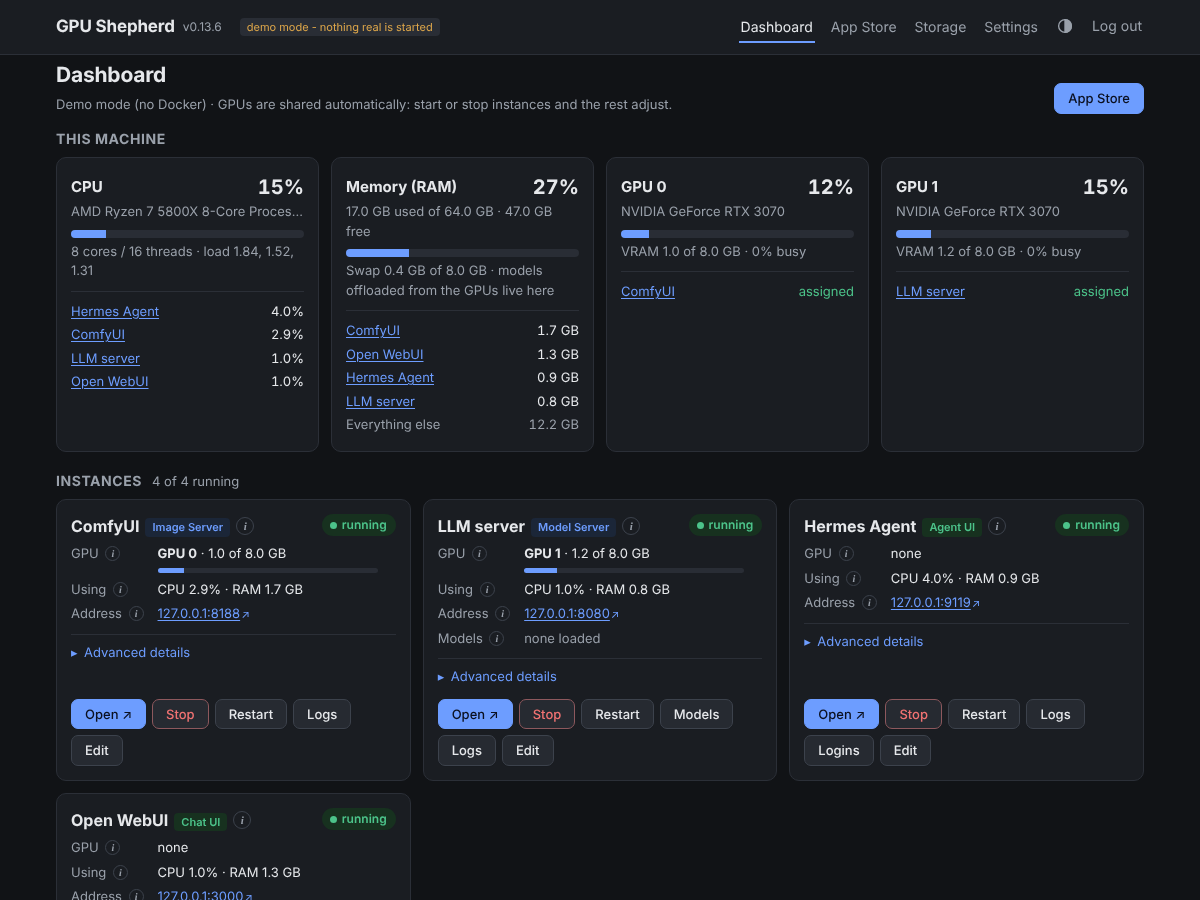
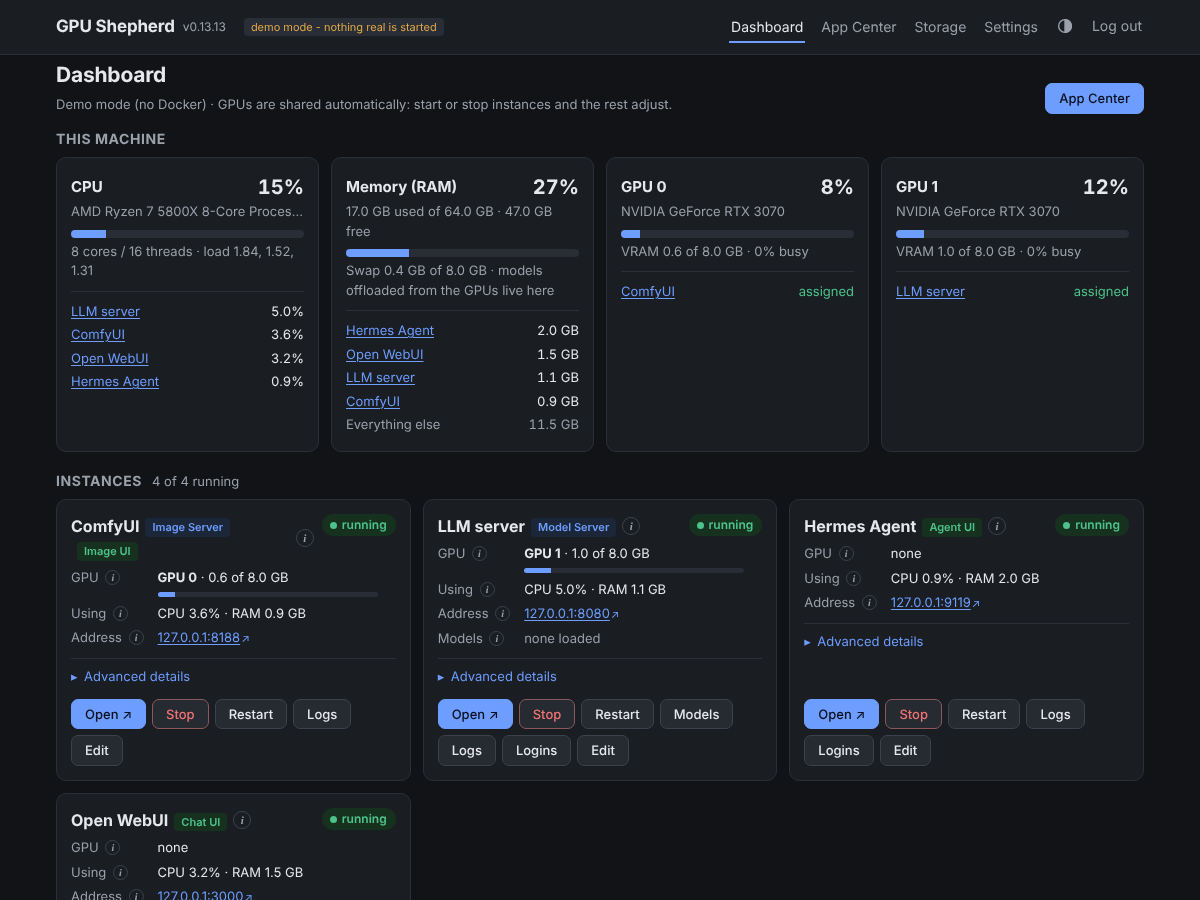
Rename the App Store to App Center (UI, CLI/API help, docs, comments, screenshots)
Claude-Session: https://claude.ai/code/session_016Q83r5m6RQ6azyovSTQNB1

diff --git a/gpushepherd/templates/instance_guided.html b/gpushepherd/templates/instance_guided.html
@@ -39,7 +39,7 @@
 <div class="pagehead">
   <div><h1>Install {{ t.title }}</h1>
   <div class="small muted">{{ t.blurb }}{% if t.docs %} <a class="ext" href="{{ t.docs }}" target="_blank" rel="noopener">Project page</a>{% endif %}{% if t.license %} · License: {{ t.license }}{% endif %}</div></div>
-  <a class="btn" href="/apps">Back to the App Store</a>
+  <a class="btn" href="/apps">Back to the App Center</a>
 </div>
 {% with app_t = t, manual = False %}{% include "partials/install_mode.html" %}{% endwith %}
 {% if t.experimental %}<div class="notice need" role="note"><strong>Experimental.</strong> {{ t.experimental }} The steps are under Afterwards, below.</div>{% endif %}
@@ -125,7 +125,7 @@
           <option value="">Nothing (no voice input or read-aloud)</option>
           {% for id, name in speech %}<option value="{{ id }}" {{ "selected" if f.speech == id }}>{{ name }} ({{ id }})</option>{% endfor %}
         </select>
-        <div class="hint">{% if speech %}Pick your Speaches instance to talk to the chat and have answers read aloud.{% else %}Install Speaches from the App Store first to talk to the chat.{% endif %}</div></div>
+        <div class="hint">{% if speech %}Pick your Speaches instance to talk to the chat and have answers read aloud.{% else %}Install Speaches from the App Center first to talk to the chat.{% endif %}</div></div>
       {% endif %}
     </div>
     <div class="subsection" data-server="{{ new_server }}">

diff --git a/gpushepherd/templates/instance_form.html b/gpushepherd/templates/instance_form.html
@@ -4,7 +4,7 @@
 <div id="editor">
 <div class="pagehead">
   <div><h1>{% if editing %}Edit {{ f.name }}{% elif app_t %}Install {{ app_t.title }}{% else %}{{ "Add model server" if f.kind == "llama-swap" else "Add instance" }}{% endif %}</h1>
-  <div class="small muted">Saved to <span class="mono">instances/{{ f.id or "&lt;id&gt;"|safe }}.yaml</span>. Changes apply the next time it (re)starts.{% if not editing and not app_t %} Prefer a few questions instead? <a href="/apps">Pick an app in the App Store</a>.{% endif %}</div></div>
+  <div class="small muted">Saved to <span class="mono">instances/{{ f.id or "&lt;id&gt;"|safe }}.yaml</span>. Changes apply the next time it (re)starts.{% if not editing and not app_t %} Prefer a few questions instead? <a href="/apps">Pick an app in the App Center</a>.{% endif %}</div></div>
   <a class="btn" href="{{ '/' if editing else ('/apps/' ~ app_t.key if app_t else '/apps') }}">Back</a>
 </div>
 {% if app_t %}{% with manual = True %}{% include "partials/install_mode.html" %}{% endwith %}{% endif %}

diff --git a/gpushepherd/templates/partials/credits.html b/gpushepherd/templates/partials/credits.html
@@ -1,5 +1,5 @@
 {# The Credits dialog: open-source projects GPU Shepherd is built on and works with (credits.py),
-   App Store apps and suggested models, each with its license. #}
+   App Center apps and suggested models, each with its license. #}
 {% macro rows(items) %}<table class="table credits"><tbody>
   {% for c in items %}<tr><td><a class="ext" href="{{ c.url }}" target="_blank" rel="noopener">{{ c.name }}</a></td><td class="small">{{ c.license }}</td><td class="small muted">{{ c.use }}</td></tr>{% endfor %}
 </tbody></table>{% endmacro %}
@@ -11,7 +11,7 @@
   {{ rows(credits.BUILT_ON) }}
   <h3>Works with</h3>
   {{ rows(credits.WORKS_WITH) }}
-  <h3>App Store apps</h3>
+  <h3>App Center apps</h3>
   <table class="table credits"><tbody>
   {% for t in apps %}<tr><td><a class="ext" href="{{ t.docs }}" target="_blank" rel="noopener">{{ t.title }}</a></td><td class="small">{{ t.license }}</td><td class="small muted mono">{{ t.image }}</td></tr>{% endfor %}
   </tbody></table>

diff --git a/gpushepherd/static/app.css b/gpushepherd/static/app.css
@@ -156,13 +156,13 @@ dialog::backdrop{background:rgba(0,0,0,.45)}
 .toast.error{background:var(--bad);color:#fff}.toast.warn{background:var(--warn);color:#fff}
 .login{max-width:380px;margin:9vh auto 0}
 .changes{margin:0 0 12px;padding-left:18px;font-size:13px;max-height:280px;overflow:auto}.changes li{margin:2px 0}
-/* App Store install forms */
+/* App Center install forms */
 .points{margin:0 0 4px;padding-left:18px;font-size:13px}
 form.guided{counter-reset:step}
 .step::before{counter-increment:step;content:counter(step)}
 .step{display:inline-flex;align-items:center;justify-content:center;width:20px;height:20px;border-radius:50%;
 background:var(--accent);color:var(--accent-fg);font-size:12px;margin-right:6px;letter-spacing:0}
-/* App Store */
+/* App Center */
 .filters{display:flex;gap:6px;flex-wrap:wrap;margin:0 0 6px}
 .grid.templates{grid-template-columns:repeat(auto-fill,minmax(330px,1fr))}
 main a.chip,main a.mode{text-decoration:none}

diff --git a/gpushepherd/templates/base.html b/gpushepherd/templates/base.html
@@ -20,7 +20,7 @@
       {% if user %}
       {% set here = request.url.path %}
       <a href="/"{% if here == "/" %} aria-current="page"{% endif %}>Dashboard</a>
-      <a href="/apps"{% if here.startswith("/apps") or here.startswith("/instances/new") %} aria-current="page"{% endif %}>App Store</a>
+      <a href="/apps"{% if here.startswith("/apps") or here.startswith("/instances/new") %} aria-current="page"{% endif %}>App Center</a>
       <a href="/storage"{% if here == "/storage" %} aria-current="page"{% endif %}>Storage</a>
       <a href="/settings"{% if here == "/settings" %} aria-current="page"{% endif %}>Settings</a>
       {% endif %}

diff --git a/gpushepherd/templates/partials/dashboard.html b/gpushepherd/templates/partials/dashboard.html
@@ -216,8 +216,8 @@
 {% else %}
   <div class="card empty">
     <h2>No instances yet</h2>
-    <p class="muted">Install an LLM server, a chat or agent app (Open WebUI, Hermes Agent) or ComfyUI from the App Store.</p>
-    <div class="btns" style="justify-content:center"><a class="btn primary" href="/apps">Open the App Store</a></div>
+    <p class="muted">Install an LLM server, a chat or agent app (Open WebUI, Hermes Agent) or ComfyUI from the App Center.</p>
+    <div class="btns" style="justify-content:center"><a class="btn primary" href="/apps">Open the App Center</a></div>
   </div>
 {% endfor %}
 </section>

diff --git a/gpushepherd/static/app.js b/gpushepherd/static/app.js
@@ -107,7 +107,7 @@
     if (del) { e.preventDefault(); del.closest(".autorow").remove(); }
   });
 
-  // App Store: the category chips show one category at a time (the links still jump there without JS)
+  // App Center: the category chips show one category at a time (the links still jump there without JS)
   function filterApps(group) {
     document.querySelectorAll("#apps [data-group]").forEach((el) => { el.hidden = !!group && el.dataset.group !== group; });
     document.querySelectorAll("[data-filter]").forEach((c) => c.setAttribute("aria-pressed", String(c.dataset.filter === group)));

diff --git a/gpushepherd/templates/apps.html b/gpushepherd/templates/apps.html
@@ -1,8 +1,8 @@
 {% extends "base.html" %}
-{% block title %}App Store · GPU Shepherd{% endblock %}
+{% block title %}App Center · GPU Shepherd{% endblock %}
 {% block content %}
 <div class="pagehead">
-  <div><h1>App Store</h1>
+  <div><h1>App Center</h1>
   <div class="small muted">Install a model server, a chat or agent UI, or an image app. <strong>Install</strong> asks a few questions and sets up the rest; <strong>Manual</strong> opens every field, filled in with the same defaults.</div></div>
   <a class="btn" href="/">Back</a>
 </div>

diff --git a/gpushepherd/templates/partials/install_mode.html b/gpushepherd/templates/partials/install_mode.html
@@ -1,4 +1,4 @@
-{# Automatic vs manual install of one App Store app; `manual` says which page this is #}
+{# Automatic vs manual install of one App Center app; `manual` says which page this is #}
 <nav class="modes" aria-label="How to install {{ app_t.title }}">
   <a class="mode" href="/apps/{{ app_t.key }}"{% if not manual %} aria-current="page"{% endif %}>
     <strong>Automatic setup <span class="tag accent">recommended</span></strong>

diff --git a/gpushepherd/templates/dashboard.html b/gpushepherd/templates/dashboard.html
@@ -6,7 +6,7 @@
     <div class="small muted">{{ docker }} · GPUs are shared automatically: start or stop instances and the rest adjust.</div>
   </div>
   <div class="btns">
-    <a class="btn primary" href="/apps">App Store</a>
+    <a class="btn primary" href="/apps">App Center</a>
   </div>
 </div>
 <div id="dash" hx-get="/ui/dashboard" hx-trigger="every 4s, refresh" hx-swap="innerHTML">

diff --git a/gpushepherd/instance_templates.py b/gpushepherd/instance_templates.py
@@ -1,4 +1,4 @@
-"""The App Store's apps: built-in templates for installing an app as an instance.
+"""The App Center's apps: built-in templates for installing an app as an instance.
 
 A template is a generic starting point (an LLM server, ComfyUI, Open WebUI, LibreChat, Hermes
 Agent...) that asks a few questions and fills in everything else. What it creates is an ordinary
@@ -78,13 +78,13 @@ class Template:
     data_owner: tuple[int, int] | None = None  # uid:gid the app runs as, for the folders made for it
     needs: str = ""
     docs: str = ""
-    license: str = ""                          # the app's own license, credited in the App Store
-    badge: str = ""                            # a few characters for its App Store icon
+    license: str = ""                          # the app's own license, credited in the App Center
+    badge: str = ""                            # a few characters for its App Center icon
     tag: str = ""                              # what kind of instance it is, on its dashboard card
     companions: tuple[str, ...] = ()           # hidden templates installed with it, which it requires
-    hidden: bool = False                       # a companion: not offered in the App Store itself
+    hidden: bool = False                       # a companion: not offered in the App Center itself
     after_install: str = ""                    # what is left to do in the app itself once it runs
-    experimental: str = ""                     # why it is marked Experimental in the App Store ("" = it isn't)
+    experimental: str = ""                     # why it is marked Experimental in the App Center ("" = it isn't)
     secrets: tuple[str, ...] = ()              # environment variables given a fresh random value when installed
 
 
@@ -254,7 +254,7 @@ TEMPLATES: tuple[Template, ...] = (
 # the model server an app with a connection can install alongside itself, and the model slot it fills
 BUNDLED_SERVER = "llm-server"
 BUNDLED_SLOT = "chat"
-# App Store keys from before there was one LLM server app
+# App Center keys from before there was one LLM server app
 RENAMED = {"llm-chat": "llm-server", "llm-coder": "llm-server"}
 NEW_SERVER = "new"
 
@@ -292,11 +292,11 @@ def matches(t: Template, inst: Instance) -> bool:
     return inst.image.rsplit(":", 1)[0] == t.image.rsplit(":", 1)[0]
 
 
-OTHER_TAG = "App"        # an instance that isn't from the App Store
+OTHER_TAG = "App"        # an instance that isn't from the App Center
 
 
 def tag_for(inst: Instance) -> str:
-    """The kind tag on an instance's dashboard card: from its App Store app, else generic."""
+    """The kind tag on an instance's dashboard card: from its App Center app, else generic."""
     return next((t.tag for t in TEMPLATES if matches(t, inst)), OTHER_TAG)
 
 
@@ -318,7 +318,7 @@ def app_name(inst: Instance) -> str:
 
 
 def installed(instances: dict[str, Instance]) -> dict[str, list[Instance]]:
-    """Template key -> the instances installed from it (App Store apps only, not companions)."""
+    """Template key -> the instances installed from it (App Center apps only, not companions)."""
     return {t.key: [i for i in instances.values() if matches(t, i)] for t in TEMPLATES if not t.hidden}
 
 

diff --git a/gpushepherd/service.py b/gpushepherd/service.py
@@ -250,7 +250,7 @@ class Shepherd:
         elif self.store.instance_path(inst.id).exists():
             raise ConfigError(f"an instance called '{inst.id}' already exists")
         self.store.save_instance(inst)
-        if inst.app and not editing:              # an App Store app installed by hand: its folders and helpers too
+        if inst.app and not editing:              # an App Center app installed by hand: its folders and helpers too
             try:
                 t = tpl.get(inst.app)
             except ConfigError:
@@ -740,7 +740,7 @@ class Shepherd:
         return out
 
     def _image_candidates(self, instances: dict[str, Instance]) -> set[str]:
-        """Images GPU Shepherd may have pulled: the App Store's, the download helper, and the
+        """Images GPU Shepherd may have pulled: the App Center's, the download helper, and the
         instances' own. Other images on the machine are none of its business."""
         return {t.image for t in tpl.TEMPLATES} | {HELPER_IMAGE} | {i.image for i in instances.values()}
 
@@ -801,7 +801,7 @@ class Shepherd:
             self.backend.remove(n)
         return f"Removed {len(names)} container(s) left without an instance." if names else "Nothing to remove."
 
-    # ------------------------------------------------------------------ App Store
+    # ------------------------------------------------------------------ App Center
     def machine(self) -> tpl.Machine:
         instances, _ = self.store.instances()
         servers = {}
@@ -864,7 +864,7 @@ class Shepherd:
 
     @checked
     def install(self, key: str, answers: dict, fill_defaults: bool = False) -> Installed:
-        """Install an App Store app from its install form's answers. With fill_defaults, the
+        """Install an App Center app from its install form's answers. With fill_defaults, the
         answers only need what differs from the form's defaults (for the API and the command)."""
         t = tpl.get(key)
         m = self.machine()
